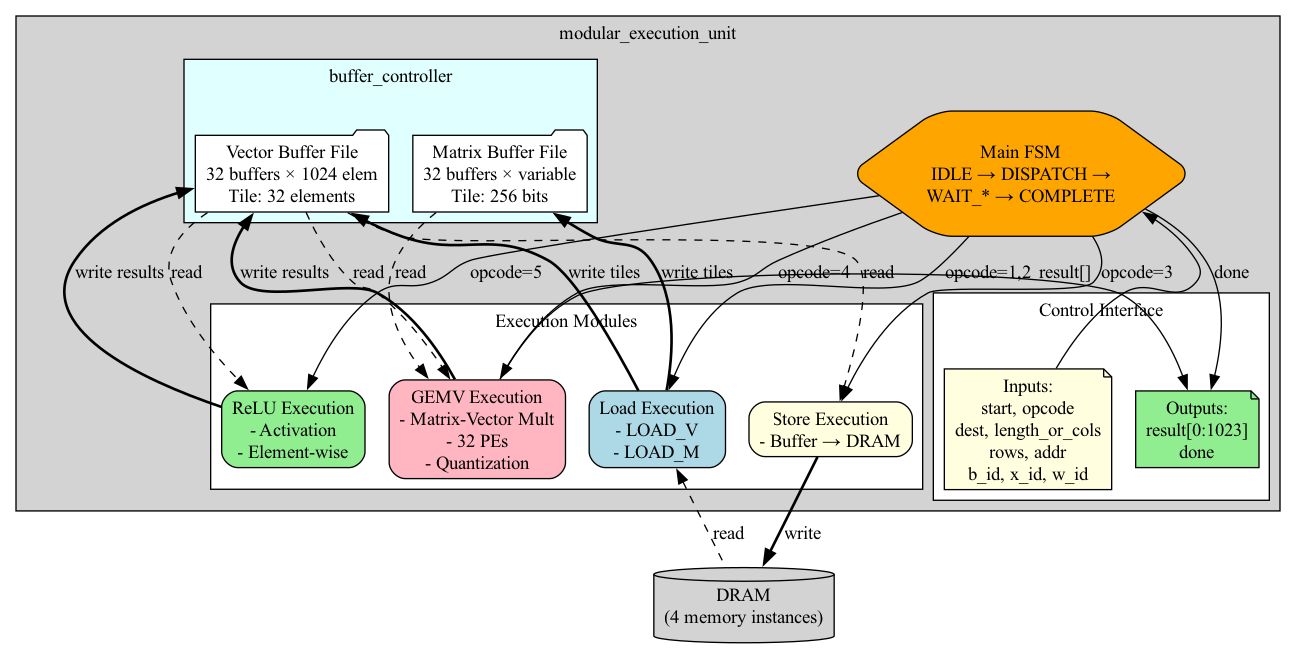
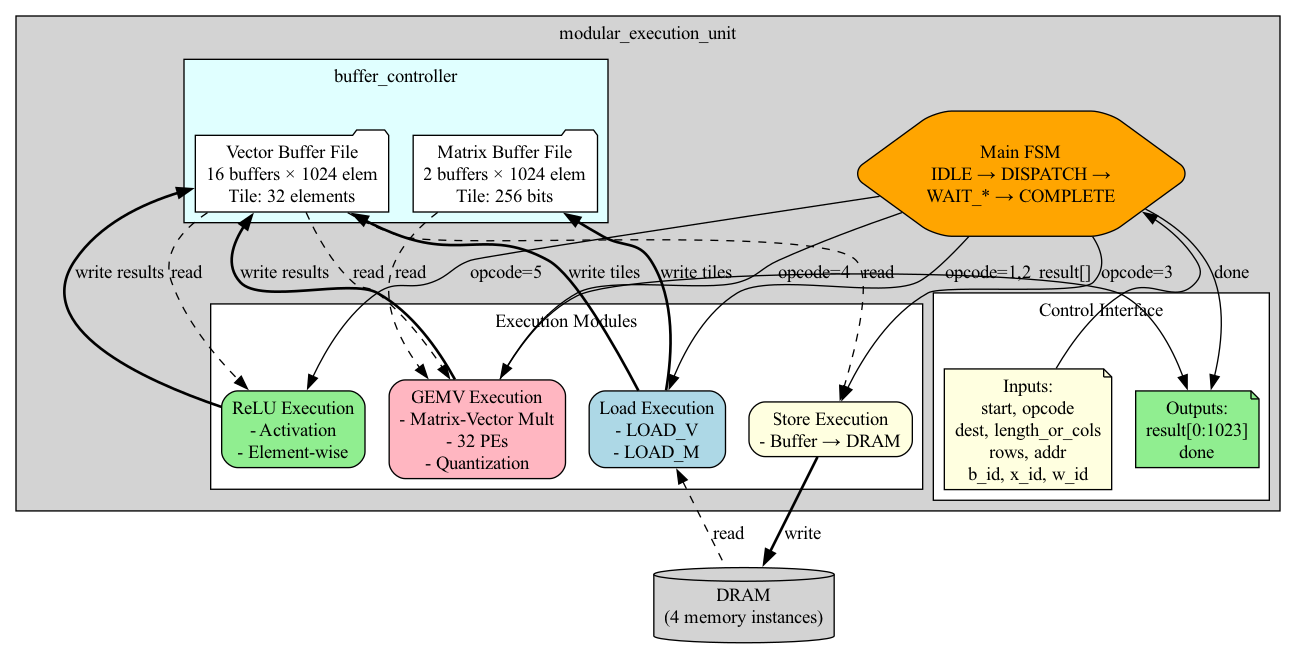
Update documentation for memory and buffer changes
Revised documentation and diagrams to reflect updated memory system (now 5 separate memories with new address map), buffer organization (vector: 16×1024, matrix: 2×1024), and module line counts. Removed outdated system architecture diagram files.

diff --git a/docs/RTL_ARCHITECTURE.md b/docs/RTL_ARCHITECTURE.md
@@ -223,25 +223,25 @@ The accelerator uses **4 separate simple_memory instances**:
 │                                                               │
 │  ┌──────────────────┐  ┌──────────────────┐                │
 │  │ Fetch Memory     │  │ Load_V Memory    │                │
-│  │ (Instructions)   │  │ (Vector Data)    │                │
+│  │ (Instructions)   │  │ (Vector/Bias)    │                │
 │  │ 0x000000-0x000700│  │ 0x000700-0x020000│                │
 │  └──────────────────┘  └──────────────────┘                │
 │                                                               │
 │  ┌──────────────────┐  ┌──────────────────┐                │
 │  │ Load_M Memory    │  │ Store Memory     │                │
 │  │ (Matrix Data)    │  │ (Output Data)    │                │
-│  │ 0x010700-0x020000│  │ 0x020000-0x030000│                │
+│  │ 0x003000-0x013000│  │ 0x020000-0x0203E8│                │
 │  └──────────────────┘  └──────────────────┘                │
 │                                                               │
 │  All initialized from: dram.hex                              │
 └──────────────────────────────────────────────────────────────┘
 
 Memory Map:
-  0x000000 - 0x000700: Instructions (1792 bytes)
-  0x000700 - 0x010700: Input vectors (64KB)
-  0x010700 - 0x013000: Weight matrices (11KB)
-  0x013000 - 0x020000: Bias vectors (52KB)
-  0x020000 - 0x030000: Output buffers (64KB)
+        0x000000 - 0x000700: Instructions (1792 bytes)
+        0x000700 - 0x003000: Input vectors (10,496 bytes)
+        0x003000 - 0x013000: Weight matrices (64KB)
+        0x013000 - 0x020000: Bias vectors (~52KB)
+        0x020000 - 0x0203E8: Output buffers (~1000 bytes allocated)
 ```
 
 ### Buffer System
@@ -252,7 +252,7 @@ Memory Map:
 │                                                               │
 │  ┌────────────────────────────────────────────────────────┐ │
 │  │  Vector Buffer File                                    │ │
-│  │  - 32 buffers x 1024 elements (configurable)          │ │
+│  │  - 16 buffers x 1024 elements each                    │ │
 │  │  - Tile-based access (32 elements per tile)           │ │
 │  │  - Separate read/write pointers per buffer            │ │
 │  │  - Read: element-wise output                          │ │
@@ -261,7 +261,7 @@ Memory Map:
 │                                                               │
 │  ┌────────────────────────────────────────────────────────┐ │
 │  │  Matrix Buffer File                                    │ │
-│  │  - 32 buffers x configurable size                     │ │
+│  │  - 2 buffers x 1024 elements each                     │ │
 │  │  - Tile-based access (256 bits = 32 bytes per tile)   │ │
 │  │  - Used for weight matrices                           │ │
 │  │  - Row-major storage                                  │ │
@@ -421,7 +421,7 @@ Memory Map:
 
 ## Module Descriptions
 
-### Core Modules
+### Core Modules (Total: ~3300 lines)
 
 | Module | Lines | Purpose | Key Features |
 |--------|-------|---------|--------------|

diff --git a/docs/README.md b/docs/README.md
@@ -52,15 +52,15 @@ open system_architecture.png
 | **Top Level** | tinyml_accelerator_top | Main coordinator |
 | **Control** | fetch_unit, i_decoder | Instruction fetch & decode |
 | **Execution** | modular_execution_unit + 5 sub-modules | Operation execution |
-| **Memory** | simple_memory (4 instances) | Data storage |
-| **Buffers** | buffer_file (2 instances) | Temporary storage |
+| **Memory** | simple_memory (5 instances) | Data storage |
+| **Buffers** | buffer_file (2 instances: vector + matrix) | Temporary storage |
 | **Computation** | top_gemv, 32× pe | Matrix-vector multiply |
 | **Quantization** | quantization, scale_calculator | 32→8 bit conversion |
 | **Arithmetic** | wallace_32x32, compressor_3to2 | Fast multiplication |
 | **Activation** | relu | ReLU activation |
 | **Data Movement** | load_v, load_m, store | DRAM ↔ Buffer |
 
-**Total: 22 unique modules** across ~2500 lines of SystemVerilog
+**Total: 22 unique modules** across ~3300 lines of SystemVerilog
 
 ## Key Features
 
@@ -79,18 +79,18 @@ open system_architecture.png
 - **FSM-Based Control**: Hierarchical state machines
 
 ### Memory System
-- **4 Separate Memories**: Instructions, Load_V, Load_M, Store
+- **5 Separate Memories**: Instructions, Load_V (Inputs), Load_M, Load_V (Biases), Store
 - **Memory Map**:
   - 0x000000-0x000700: Instructions (1792 bytes)
-  - 0x000700-0x010700: Input vectors (64KB)
-  - 0x010700-0x013000: Weight matrices (11KB)
-  - 0x013000-0x020000: Bias vectors (52KB)
-  - 0x020000-0x030000: Output buffers (64KB)
+  - 0x000700-0x003000: Input vectors (10,496 bytes)
+  - 0x003000-0x013000: Weight matrices (64KB)
+  - 0x013000-0x020000: Bias vectors (~52KB)
+    - 0x020000-0x0203E8: Output buffers (~1000 bytes allocated)
 
 ### Buffer System
-- **Vector Buffers**: 32 buffers × 1024 elements (configurable)
-- **Matrix Buffers**: 32 buffers × variable size
-- **Tile-Based Access**: 32 bytes per tile
+- **Vector Buffers**: 16 buffers × 1024 elements each
+- **Matrix Buffers**: 2 buffers × 1024 elements each
+- **Tile-Based Access**: 32 elements (32 bytes) per tile
 
 ## Performance
 
